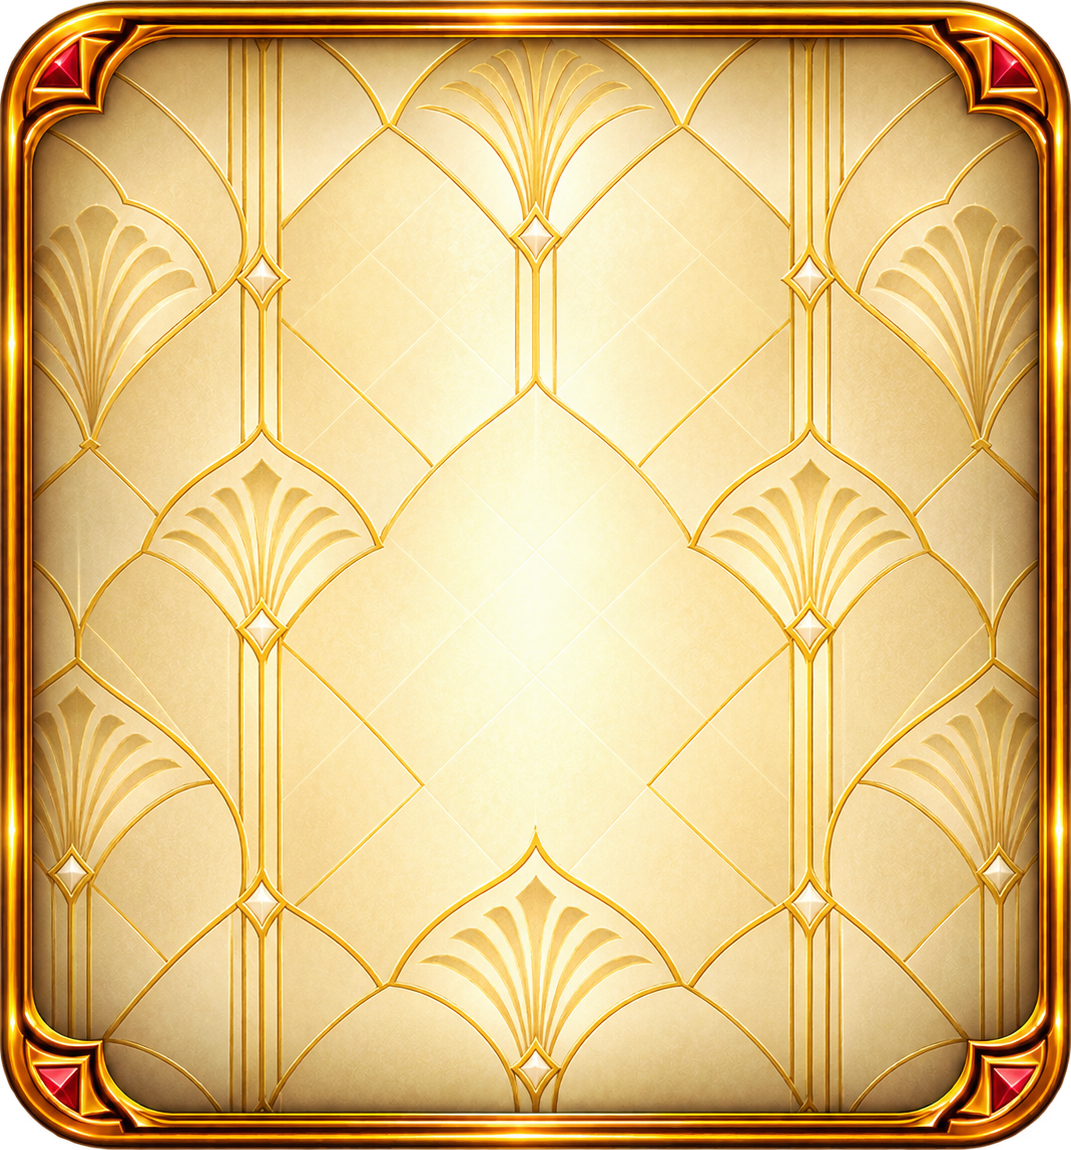
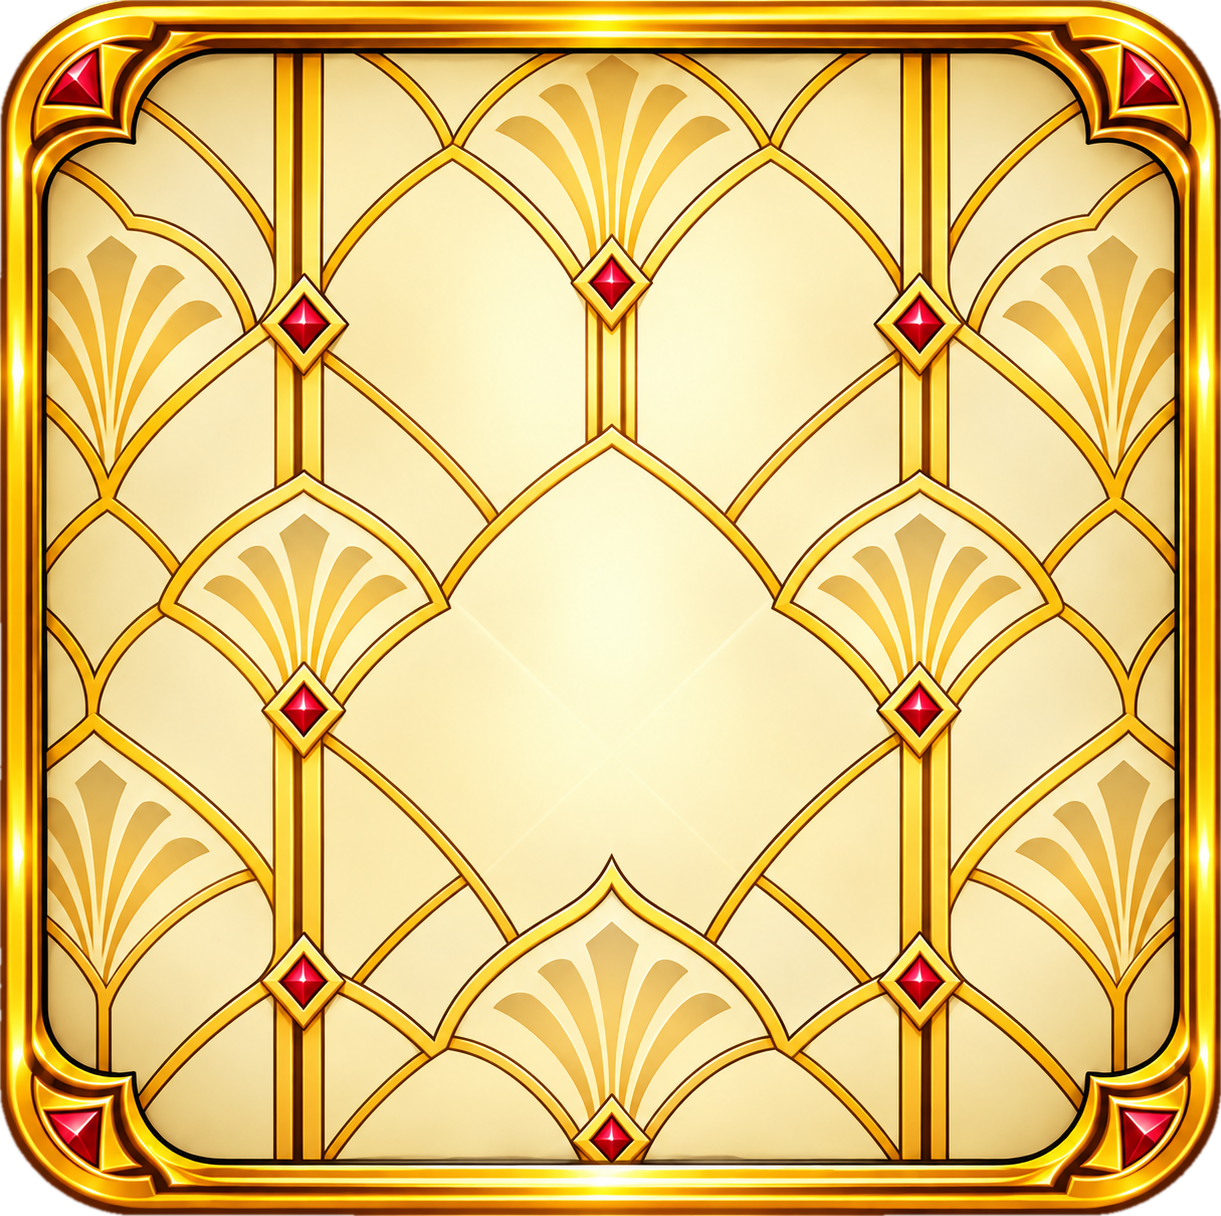
feat: frame with 100px windows, window background layer, v1 tier tiles, smaller tier scale, BetUI -10%, menu +3%

diff --git a/frontend/apps/poc/src/components/skyjump_v2/SkyJumpV2Board.svelte b/frontend/apps/poc/src/components/skyjump_v2/SkyJumpV2Board.svelte
@@ -5,7 +5,7 @@
 	import { waitForTimeout } from 'utils-shared/wait';
 
 	import { getContext } from '../../game/context';
-	import { loungeShown, loungeSlotBackSrc, loungeSlotFrameSrc } from '../../game/midnightLoungeTheme';
+	import { loungeShown, loungeSlotFrameSrc, loungeSlotWindowSrc } from '../../game/midnightLoungeTheme';
 	import { V2_PAYLINES, V2_PAYLINE_IDS, V2_SCATTER_ID } from '../../game/skyjump_v2/config';
 	import { bonusHud, bonusShowsTargets, tierLabel } from '../../game/skyjump_v2/bonusHud.svelte';
 	import { V2_PLACEHOLDERS, reelFillerBand, v2Placeholder } from '../../game/skyjump_v2/placeholders';
@@ -269,7 +269,7 @@
 	const gap = 0;
 	const framePad = 0;
 	/** Slot width (px @1280): the frame art is scaled so the 5x5 playfield is this wide. */
-	const BOARD_GRID_W = 585;
+	const BOARD_GRID_W = 520;
 	// Not rounded: a rounded cell height drifts away from the frame's 133.2 art-px row pitch (up to 2.5 px by the last row).
 	const cellW = $derived(Math.max(22, px(BOARD_GRID_W) / 5));
 	const cellH = $derived(Math.max(22, cellW / V2_SLOT_BOARD_FRAME.cellAspect));
@@ -279,28 +279,29 @@
 	const symbolPitch = $derived(boardH / VISIBLE_ROWS);
 	const surfaceW = $derived(boardW + framePad * 2 + FRAME_BORDER * 2);
 	const surfaceH = $derived(boardH + framePad * 2 + FRAME_BORDER * 2);
+	/** Settled symbols rest this many art px above the window centre. */
+	const SYMBOL_LIFT = -6;
 	/** Pixels per art pixel of the frame. */
 	const artK = $derived(cellW / V2_FRAME_WINDOWS.pitch.w);
 	/** Per-cell geometry: the tier tile fills the real window; the symbol is centred on it. Offsets are from the nominal cell. */
 	const cellGeo = (reel: number, row: number) => {
 		const W = V2_FRAME_WINDOWS;
+		const r = Math.min(4, Math.max(0, row));
 		const nx = W.origin.x + W.pitch.w * reel;
-		const hx = W.colX[reel];
-		const tw = W.colW[reel];
-		const offY = (W.pitch.h - W.winH) / 2;
+		const ny = W.origin.y + W.pitch.h * r;
 		return {
-			tx: (hx - nx) * artK,
-			ty: offY * artK,
-			tw: tw * artK,
+			// Window rect inside its cell (px).
+			tx: (W.colX[reel] - nx) * artK,
+			ty: (W.rowY[r] - ny) * artK,
+			tw: W.winW * artK,
 			th: W.winH * artK,
-			clip: 0,
-			dx: (hx + tw / 2 - (nx + W.pitch.w / 2)) * artK,
-			// Symbols rest a little above the window centre (more room under them, less over the frame below).
-			dy: -0.035 * W.pitch.h * artK,
+			// Window centre relative to the cell centre: symbols are centred on the window.
+			dx: (W.colX[reel] + W.winW / 2 - (nx + W.pitch.w / 2)) * artK,
+			dy: (W.rowY[r] + W.winH / 2 - (ny + W.pitch.h / 2)) * artK + SYMBOL_LIFT * artK,
 		};
 	};
 	const slotFrameSrc = loungeSlotFrameSrc;
-	const slotBackSrc = loungeSlotBackSrc;
+	const windowBgSrc = loungeSlotWindowSrc;
 	/** Art frame sized so its transparent hole stays centered on the grid, then +10%. */
 	const slotFrameW = $derived(
 		(boardW / (V2_SLOT_BOARD_FRAME.holeRight - V2_SLOT_BOARD_FRAME.holeLeft)) *
@@ -1120,17 +1121,20 @@
 			</div>
 		{/if}
 		<div class="board-surface" data-test="skyjump-v2-board-surface">
-			<div
-				class="board-art-back"
-				style:left={`${slotFrameLeft}px`}
-				style:top={`${slotFrameTop}px`}
-			>
-				<SlotFrameLayer
-					src={slotBackSrc}
-					width={slotFrameW}
-					height={slotFrameH}
-					testId="skyjump-v2-slot-back"
-				/>
+			<!-- Layer 1: the default window background, behind the rolling symbols and the frame. -->
+			<div class="window-bgs" aria-hidden="true" data-test="skyjump-v2-window-bgs">
+				{#each Array.from({ length: 25 }, (_, i) => i) as n}
+					{@const wg = cellGeo(n % 5, Math.floor(n / 5))}
+					<img
+						src={windowBgSrc}
+						alt=""
+						draggable="false"
+						style:left={`${(n % 5) * cellW + wg.tx}px`}
+						style:top={`${Math.floor(n / 5) * cellH + wg.ty}px`}
+						style:width={`${wg.tw}px`}
+						style:height={`${wg.th}px`}
+					/>
+				{/each}
 			</div>
 			<div
 				class="board-art-frame"
@@ -1200,7 +1204,6 @@
 										style:top={`${geo.ty}px`}
 										style:width={`${geo.tw}px`}
 										style:height={`${geo.th}px`}
-										style:clip-path={geo.clip > 0 ? `inset(0 0 ${geo.clip}% 0)` : undefined}
 									/>
 									<div
 										class="content-stage"
@@ -1590,15 +1593,20 @@
 		overflow: visible;
 	}
 
-	/* Behind the symbols (grid is z 1); the frame art (z 6) sits above them. */
-	.board-art-back {
+	/* Behind everything in the grid (rolling symbols), under the frame art (z 6). */
+	.window-bgs {
 		position: absolute;
+		left: var(--frame-pad, 0px);
+		top: var(--frame-pad, 0px);
 		z-index: 0;
-		display: block;
 		pointer-events: none;
+	}
+
+	.window-bgs img {
+		position: absolute;
+		max-width: none;
 		object-fit: fill;
 		user-select: none;
-		-webkit-user-drag: none;
 	}
 
 	.board-art-frame {

diff --git a/frontend/apps/poc/src/game/skyjump_v2/presentationLayout.ts b/frontend/apps/poc/src/game/skyjump_v2/presentationLayout.ts
@@ -96,69 +96,53 @@ export const V2_PANEL_DECOR = {
  * innermost colored pixels so side diamonds and crests stay outside the 5×5.
  * Scale 1 keeps that hole on the grid — about 6% tighter than the previous 1.078.
  */
-/** Row cut lines in the 1672x941 frame art (centre of the gold line between two windows), art px. */
-const CUTS = [87.5, 225.5, 361.5, 495.5, 626.5, 753.5] as const;
-/** Every row band is stretched to this height (mean of the five art rows 138 / 136 / 134 / 131 / 127). */
-const ROW_T = (CUTS[5] - CUTS[0]) / 5;
-
 /**
- * The frame art's rows are not equally tall, so it is redrawn as bands (see SlotFrameLayer.svelte):
- * a top piece, five row bands stretched to the same height, and a bottom piece. Output height = source height.
+ * `slot_background_1.png` (1672x941): the frame with 25 near-square windows (about 98.5 art px) on a
+ * 128 x 126.25 pitch. Rows are equal, so the frame is drawn as one piece (SlotFrameLayer with one band).
  */
 export const V2_FRAME_BANDS = {
 	srcH: 941,
 	outH: 941,
-	bands: [
-		{ srcStart: 0, srcEnd: CUTS[0], outStart: 0, outEnd: CUTS[0] },
-		...[0, 1, 2, 3, 4].map((k) => ({
-			srcStart: CUTS[k],
-			srcEnd: CUTS[k + 1],
-			outStart: CUTS[0] + k * ROW_T,
-			outEnd: CUTS[0] + (k + 1) * ROW_T,
-		})),
-		{ srcStart: CUTS[5], srcEnd: 941, outStart: CUTS[5], outEnd: 941 },
-	],
+	bands: [{ srcStart: 0, srcEnd: 941, outStart: 0, outEnd: 941 }],
 } as const;
+
+const GRID_ORIGIN = { x: 516.25, y: 115.9 };
+const PITCH = { w: 128, h: 126.25 };
 
 export const V2_SLOT_BOARD_FRAME = {
-	/**
-	 * `slot_background_1/2.png` (1672x941, 5x5 windows). After the row equalisation the playfield is a
-	 * uniform 5x5 grid of 163.25 x 133.2 art px cells starting at (428.9, 87.5).
-	 */
-	holeLeft: 0.2565,
-	holeRight: 0.7447,
-	holeTop: 87.5 / 941,
-	holeBottom: (87.5 + 5 * ROW_T) / 941,
+	/** Playfield: the 5x5 block of pitches around the windows, as fractions of the art. */
+	holeLeft: GRID_ORIGIN.x / 1672,
+	holeRight: (GRID_ORIGIN.x + 5 * PITCH.w) / 1672,
+	holeTop: GRID_ORIGIN.y / 941,
+	holeBottom: (GRID_ORIGIN.y + 5 * PITCH.h) / 941,
 	scale: 1,
-	/** Cell pitch aspect (163.25 / 133.2). */
-	cellAspect: 163.25 / ROW_T,
+	cellAspect: PITCH.w / PITCH.h,
 } as const;
 
-/** The frame's windows in art pixels (1672x941), after the row equalisation. */
+/** The frame's windows in art pixels (1672x941). */
 export const V2_FRAME_WINDOWS = {
 	art: { w: 1672, h: 941 },
-	/** Nominal grid: origin and pitch, art px. */
-	origin: { x: 428.9, y: CUTS[0] },
-	pitch: { w: 163.25, h: ROW_T },
-	colX: [440, 600, 764, 929, 1093],
-	colW: [141, 144, 145, 144, 140],
-	/** Every window is this tall (the art's 121 .. 110 px windows, stretched with their bands) and centred in its cell. */
-	winH: 116,
+	origin: GRID_ORIGIN,
+	pitch: PITCH,
+	colX: [531, 659, 787, 915, 1043],
+	rowY: [130, 257, 383, 509, 635],
+	/** Window size, art px. */
+	winW: 98.5,
+	winH: 98.5,
 } as const;
 
-/** Window height / cell pitch of the frame art: the symbol box is a whole cell, the visible window is smaller. */
-const WINDOW_FIT = 116 / ROW_T;
+/** Window height / cell height: the symbol box is a whole cell, the visible window is smaller. */
+const WINDOW_FIT = 98.5 / PITCH.h;
 
 /**
- * Symbol height by tier as a fraction of the frame WINDOW height (not of the cell). Each regular tier is 1.1x the
- * previous one; scatter, Concierge / Mystery and feature symbols match premium. Overall 5 % smaller than before.
- * Settled symbols are drawn above the frame, so premium may just touch the window's gold lines.
+ * Symbol height by tier as a fraction of the frame WINDOW height. Steps between regular tiers are 5 %
+ * (low -> medium -> premium); scatter, Concierge / Mystery and feature symbols match premium.
  */
 export const V2_TIER_SCALE: Record<string, number> = {
-	low: 0.86 * WINDOW_FIT,
-	medium: 0.95 * WINDOW_FIT,
-	premium: 1.04 * WINDOW_FIT,
-	scatter: 1.04 * WINDOW_FIT,
-	concierge_mystery: 1.04 * WINDOW_FIT,
-	feature: 1.04 * WINDOW_FIT,
+	low: 0.8 * WINDOW_FIT,
+	medium: 0.84 * WINDOW_FIT,
+	premium: 0.88 * WINDOW_FIT,
+	scatter: 0.88 * WINDOW_FIT,
+	concierge_mystery: 0.88 * WINDOW_FIT,
+	feature: 0.88 * WINDOW_FIT,
 };

diff --git a/frontend/apps/poc/src/components/midnightLoungeBetUi/MidnightLoungeBetUI.svelte b/frontend/apps/poc/src/components/midnightLoungeBetUi/MidnightLoungeBetUI.svelte
@@ -148,20 +148,25 @@
 	const hudUrl = (key: HudKey) => resolveGameAsset(`assets/midnight-lounge/ui/betui2/${key}.png`);
 
 	// Layout (stage px, from new_betui_preview.png): bottom-left bonus + menu/balance, bottom-right turbo, auto, bet, spin.
-	const L = {
-		// Everything but SPIN/STOP is 7 % smaller than in the preview, with tighter gaps.
-		bonus: box('bonus', 9, 527, 230),
-		balance: box('balance', 6, 596, 386),
-		// The menu button replaces the plate's left blob (87..597 x 123..628 in the file), stretched and widened to hide it.
-		menu: box('menu', 4, 600, 104, 98),
-		win: box('bet_background', 438, 615, 290),
-		bet: box('bet_background', 775, 615, 318),
-		minus: box('minus', 785, 629, 66),
-		plus: box('plus', 1015, 629, 66),
-		turbo: box('turbo', 919, 498, 171),
-		auto: box('autospin', 921, 557, 169),
-		spin: box('spin', 1082, 501, 193),
-	};
+	const L = (() => {
+		// Everything but SPIN/STOP is 10 % smaller than the previous pass (menu 3 % bigger first), tight gaps.
+		const bet = box('bet_background', 804, 614, 286);
+		const d = bet.w * 0.2;
+		const m = bet.w * 0.04;
+		const cy = bet.y + (bet.h - d) / 2;
+		return {
+			bonus: box('bonus', 9, 543, 207),
+			balance: box('balance', 6, 606, 347),
+			menu: box('menu', 3, 609, 96, 91),
+			win: box('bet_background', 448, 617, 261),
+			bet,
+			minus: box('minus', bet.x + m, cy, d),
+			plus: box('plus', bet.x + bet.w - m - d, cy, d),
+			turbo: box('turbo', 936, 509, 154),
+			auto: box('autospin', 938, 562, 152),
+			spin: box('spin', 1082, 501, 193),
+		};
+	})();
 	/** The HUD is laid out on a 1280x720 stage and scaled to the play area like the rest of the scene. */
 	let hudRoot = $state<HTMLDivElement | null>(null);
 	let hudFrame = $state('left:0px;top:0px;transform:scale(1);');
@@ -276,7 +281,7 @@
 			>
 				<img src={hudUrl('bonus')} style={imgStyle(L.bonus)} alt="" draggable="false" />
 			</button>
-			<span class="hud-label" style={at(L.bonus, 1250, 360)}>BONUS</span>
+			<span class="hud-label bonus-label" style={at(L.bonus, 1250, 360)}>BONUS</span>
 
 			<!-- Menu + balance plate -->
 			<div class="hud-plate-frame" style={boxStyle(L.balance)} aria-hidden="true">
@@ -630,7 +635,7 @@
 	}
 
 	.hud-label {
-		font-size: 16px;
+		font-size: 14.4px;
 		letter-spacing: 0.06em;
 		text-transform: uppercase;
 	}
@@ -674,19 +679,23 @@
 	}
 
 	.hud-win .win-kicker {
-		font-size: 17px;
+		font-size: 15.3px;
 	}
 
 	.hud .kicker {
-		font-size: 14px;
+		font-size: 12.6px;
 	}
 
 	.hud .value {
-		font-size: 22px;
+		font-size: 19.8px;
 	}
 
 	.hud .value.big {
-		font-size: 30px;
+		font-size: 27px;
+	}
+
+	.hud .bonus-label {
+		font-size: 20px;
 	}
 
 	.hud-win .free-spins {

diff --git a/frontend/apps/poc/src/game/midnightLoungeTheme.ts b/frontend/apps/poc/src/game/midnightLoungeTheme.ts
@@ -14,7 +14,7 @@ export const TBD_MIDNIGHT_LOUNGE_LABEL = 'TBD_MIDNIGHT_LOUNGE_LABEL';
 
 export const loungeLogoSrc = v2UiAssetUrl('logo');
 export const loungeSlotFrameSrc = resolveGameAsset('assets/midnight-lounge/scene/slot_background_1.png');
-export const loungeSlotBackSrc = resolveGameAsset('assets/midnight-lounge/scene/slot_background_2.png');
+export const loungeSlotWindowSrc = resolveGameAsset('assets/midnight-lounge/scene/slot_window_bg.png');
 
 /** Internal id → ski label and the Midnight Lounge label on screen. */
 export const LOUNGE_PRESENTATION = {

diff --git a/docs/midnight-lounge-character-animation.md b/docs/midnight-lounge-character-animation.md
@@ -335,3 +335,12 @@ Fixed after the guideline review (verified against a local mock RGS, a productio
   The bonus pill replaces the emblem as the buy-bonus button.
 - Slot frame rows: the art's rows were 138 / 136 / 134 / 131 / 127 px tall. `SlotFrameLayer.svelte` redraws both frame layers as a top piece, five row
   bands stretched to one height (`V2_FRAME_BANDS`) and a bottom piece; tiles and symbols use one uniform window height (`V2_FRAME_WINDOWS.winH`).
+
+## Frame v4 (100x100 windows) and v1 tier tiles
+
+- `scene/slot_background_1.png` = `slot_background_100x100px_windows.png` (25 equal windows of ~98.5 art px on a 128 x 126.25 pitch, one band, no equalising needed).
+  `scene/slot_window_bg.png` = `slot_frame_default_background.png`, drawn per window as the very first layer.
+- Layer order of the slot: window backgrounds -> rolling symbols and their blurred tiles -> frame -> settled symbols and their tiles (over the frame).
+- Tier tiles come from `slot_tile_backgrounds_tiers_v1_renamed.zip` (black corners turned transparent, cropped); the rolling versions are generated from them with a
+  vertical motion blur (script was run once, see `tiles_blur/`). Tile and symbol are centred on the window (tile matches the window to the pixel; symbols sit 6 art px higher).
+- Tier sizes relative to the window height: low 0.80, medium 0.84, premium 0.88 (5 % steps). BetUI elements (not SPIN/STOP) are 10 % smaller; the bet +/- circles are symmetric.
